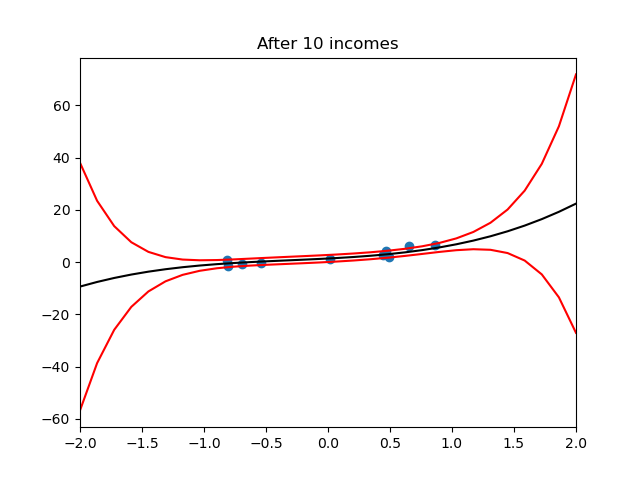
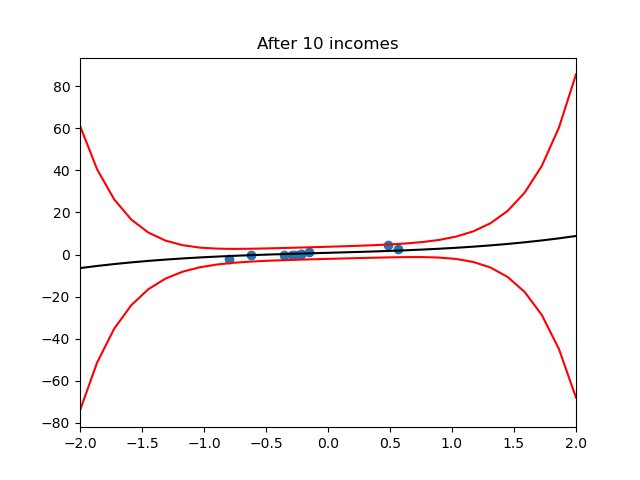
update 1b and 3

diff --git a/HW3/hw_1b.py b/HW3/hw_1b.py
@@ -15,6 +15,18 @@ def Power(base, exp):
         base *= base
     return result
 
+def point_generator(a, w, n):
+    '''
+    Polynomial basis linear model data generator.
+    Return a (x, y) point from y = WX + e
+    '''
+    error = hw_1a.gaussian_data_generator(0, a)
+    x = np.random.uniform(-1, 1)
+    y = error
+    for i in range(n):
+        y += w[i]*Power(x, i)
+    return x, y
+
 if __name__ == '__main__':
     parser = argparse.ArgumentParser()
     parser.add_argument('--N', type = int, default = 0)
@@ -26,9 +38,5 @@ if __name__ == '__main__':
     w = []
     for k in args.W.split('/'):
         w.append(float(k))
-    error = hw_1a.gaussian_data_generator(0, a)
-    x = np.random.uniform(-1, 1)
-    y = error
-    for i in range(n):
-        y += w[i]*Power(x, i)
+    x, y = point_generator(a, w, n)
     print(f'The point: ({x}, {y})')

diff --git a/HW3/hw3.py b/HW3/hw3.py
@@ -1,18 +1,8 @@
 import numpy as np
 import argparse
-import hw_1a
-import seaborn as sns
 import matplotlib.pyplot as plt
 import matplotlib.gridspec as gridspec
-
-def point_generator(a, w):
-    error = hw_1a.gaussian_data_generator(0, a)
-    x = np.random.uniform(-1, 1)
-    y = error
-    for i in range(n):
-        y += w[i]*Power(x, i)
-    return x, y
-
+import hw_1b
 
 def Power(base, exp):
     '''
@@ -48,7 +38,7 @@ if __name__ == '__main__':
 
     while True:
         k += 1
-        x, y = point_generator(a_for_point, w)
+        x, y = hw_1b.point_generator(a_for_point, w, n)
         data_x.append(x)
         data_y.append(y)
         #design matirx = A
